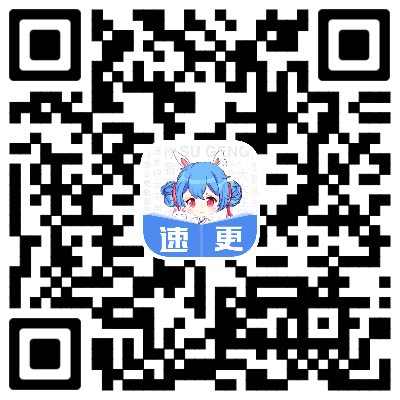
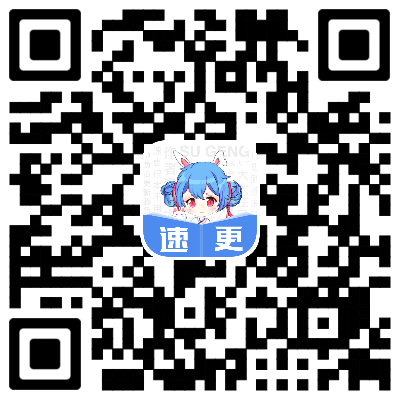
修改二维码

diff --git a/src/components/HeaderBottom/HeaderBottom.vue b/src/components/HeaderBottom/HeaderBottom.vue
@@ -18,7 +18,7 @@
         手机端
       </a>
 
-      <img class="android-qr-code" src="../../assets/img/qr_android_download2.png" v-show="showQrcode"/>
+      <img class="android-qr-code" src="../../assets/img/qr_android_download.png" v-show="showQrcode"/>
 
     </div>
   </div>
@@ -61,7 +61,7 @@
         z-index 9999
         right: 68px;
         position absolute
-        box-shadow: 0 3px 7px 0 rgba(0, 0, 0, 0.35)
+        box-shadow: 0 3px 7px 0 rgba(77, 139, 238,.8);
       a
         display inline-block
         width: 80px
